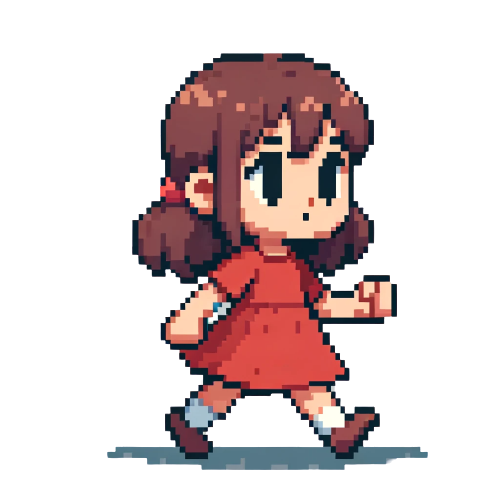
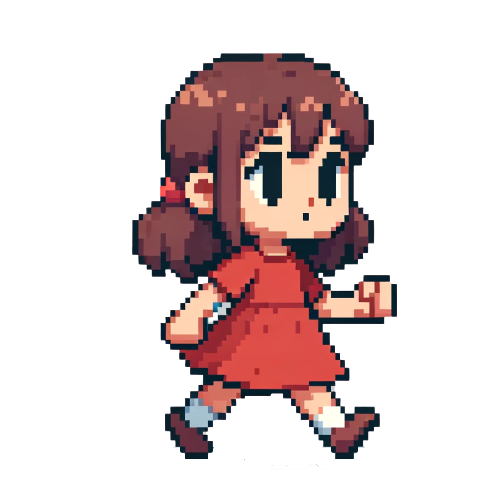
girl jump done

Changed region(s): [[0.21, 0.87, 0.87, 0.96]]

diff --git a/Game/src/game/sample/entity/Girl.java b/Game/src/game/sample/entity/Girl.java
@@ -22,8 +22,8 @@ public class Girl {
     private final int imgWidth = 130;
     private final int imgHeight = 130;
     private boolean jumping = false;
-    private final int jumpHeight = 200;   // Adjust this to change the height of the jump
-    private final int jumpSpeed = 10;    // Adjust this to change the speed of the jump
+    private final int jumpHeight = 170;   // Adjust this to change the height of the jump
+    private final int jumpSpeed = 20;    // Adjust this to change the speed of the jump
     private int jumpCounter = 0;
     private final int GRAVITY = 1; // Gravity pulling the girl down every frame
 	private final int JUMP_STRENGTH = -15; // The initial upward velocity when jumping
@@ -67,7 +67,7 @@ public class Girl {
         } catch (IOException e) {
             e.printStackTrace();
         }
-        this.currentImage = girlMove2;
+        this.currentImage = girlMove1;
         this.gun = new Gun();
         this.x = StartX;
         this.y = StartY;
@@ -79,26 +79,16 @@ public class Girl {
     }
 
     public void jump() {
-        if(!jumping) {   // Check if she's not already jumping
+        if (!jumping) {   // Check if she's not already jumping
             jumping = true;
             jumpCounter = 0; // Reset jumpCounter when starting a new jump
+            currentImage = girlMove1;
         }
-        // Apply vertical velocity to the girl's Y position
-//		y = y + verticalVelocity;
-//		y = Math.max(y, 0);
-//		y = Math.min(y, 400);
-
-//		// Apply gravity
-//		verticalVelocity += GRAVITY;
-//		// Stop the girl from going below the ground (assuming ground is at GameFrame.GAME_HEIGHT - girl.getImageHeight())
-//		if(y >= 800) {
-//			y = 800;
-//			verticalVelocity = 0; // Reset vertical velocity when on the ground
-//		}
     }
 
     public void updatePosition() {
         if(jumping) {
+            currentImage = girlMove1;
             // Move the girl up quickly
             this.y -= jumpSpeed;
 
@@ -112,13 +102,15 @@ public class Girl {
     }
 
     public void toggleImage() {
-        animationCounter++;
-        // Change this value to control the speed of the animation
-        if (animationCounter % switchInterval == 0) {
-            if (currentImage == girlMove1) {
-                currentImage = girlMove2;
-            } else {
-                currentImage = girlMove1;
+        if(!jumping) {
+            animationCounter++;
+            // Change this value to control the speed of the animation
+            if (animationCounter % switchInterval == 0) {
+                if (currentImage == girlMove1) {
+                    currentImage = girlMove2;
+                } else {
+                    currentImage = girlMove1;
+                }
             }
         }
     }

diff --git a/Game/src/game/sample/logic/GameState.java b/Game/src/game/sample/logic/GameState.java
@@ -200,7 +200,7 @@ public class GameState {
 
 	private boolean keyRIGHT, keyLEFT, keySpace;
 	public boolean gameOver, gamePass;
-	private final int GRAVITY = 1; // Gravity pulling the girl down every frame
+	private final int GRAVITY = 3; // Gravity pulling the girl down every frame
 	private final int JUMP_STRENGTH = -15; // The initial upward velocity when jumping
 	private int verticalVelocity = 0; // The current vertical velocity of the girl
 
@@ -214,7 +214,7 @@ public class GameState {
 		keySpace = false;
 
 		keyHandler = new KeyHandler();
-		girl = new Girl(0, 60);
+		girl = new Girl(0, 400);
 	}
 
 	public Girl getGirl(){
@@ -225,8 +225,6 @@ public class GameState {
 	 * The method which updates the game state.
 	 */
 	public void update() {
-		if(keySpace)
-			girl.jump();
 		if(keySpace && verticalVelocity == 0) {
 			girl.jump(); // Start the jump
 		}
@@ -240,6 +238,7 @@ public class GameState {
 
 		// Apply gravity
 		verticalVelocity += GRAVITY;
+
 		// Stop the girl from going below the ground (assuming ground is at GameFrame.GAME_HEIGHT - girl.getImageHeight())
 		if(girl.getY() >= 390) {
 			girl.setY(390);
@@ -251,8 +250,8 @@ public class GameState {
 		if (keyRIGHT)
 			girl.setX(girl.getX() + 8);
 		// Ensure the girl's position remains within bounds
-		girl.setX(Math.max(girl.getX(), 0));
-		girl.setX(Math.min(girl.getX(), GameFrame.GAME_WIDTH));
+		girl.setX(Math.max(girl.getX(), 20));
+		girl.setX(Math.min(girl.getX(), GameFrame.GAME_WIDTH - 100));
 
 		girl.toggleImage();
 	}
